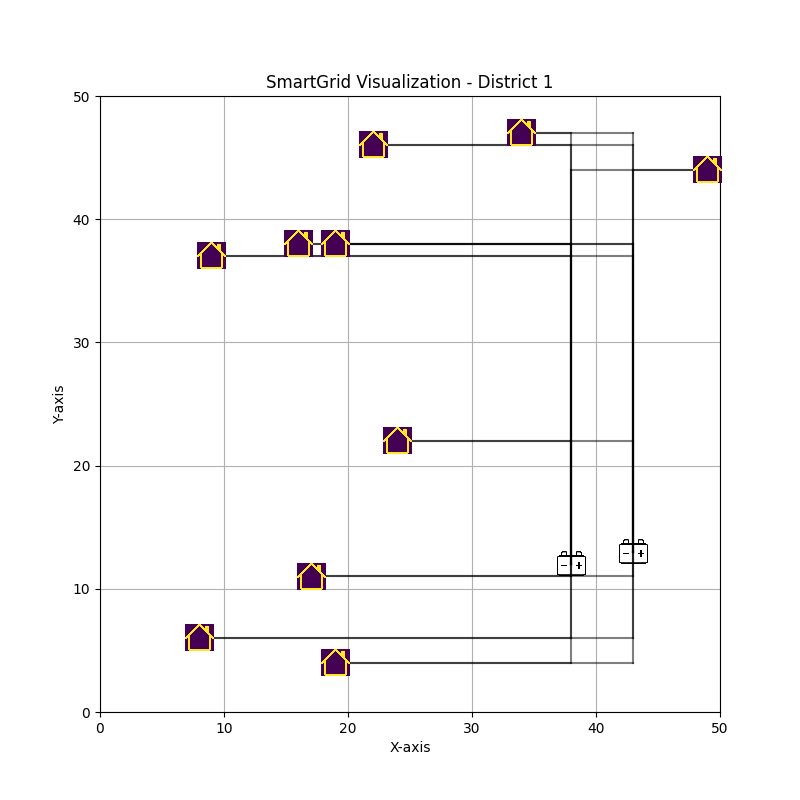
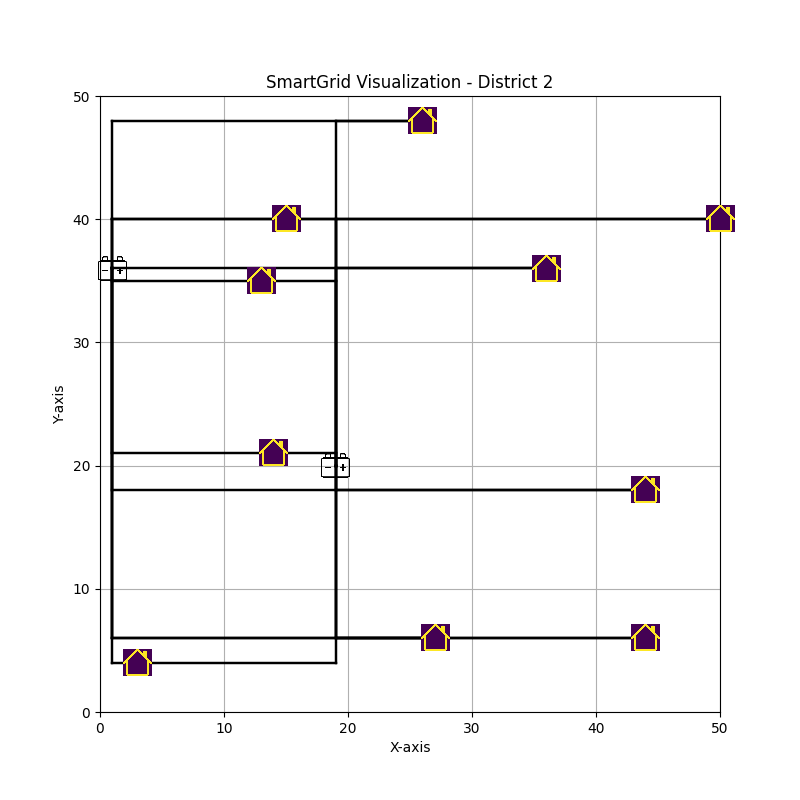
update

Changed region(s): [[0.125, 0.125, 0.9375, 0.8438], [0.625, 0.125, 0.8125, 0.2188]]

diff --git a/visualization/visualizegrid.py b/visualization/visualizegrid.py
@@ -1,7 +1,7 @@
-import matplotlib.pyplot as plt
-from matplotlib.offsetbox import OffsetImage, AnnotationBbox
-from PIL import Image
-import json 
+# import matplotlib.pyplot as plt
+# from matplotlib.offsetbox import OffsetImage, AnnotationBbox
+# from PIL import Image
+# import json 
 
 # import json
 
@@ -115,7 +115,7 @@ import json
 #         output_data = json.load(file)
 #     # Call visualize_grid with the loaded data
 #     visualize_grid(output_data)
-# #almost correct but somehow all the cables are connected
+#almost correct but somehow all the cables are connected
 
 # import matplotlib.pyplot as plt
 # from matplotlib.offsetbox import OffsetImage, AnnotationBbox
@@ -165,72 +165,15 @@ import json
 #     ax.set_xlabel('X-axis')
 #     ax.set_ylabel('Y-axis')
 #     ax.grid(True)
-#     plt.savefig('figure.png')
-#     # plt.show()
+#     #plt.savefig('figure.png')
+#     plt.show()
 
 # if __name__ == '__main__':
-#     
+#     # Load data from output.json in the parent directory
 #     file_path = '../output.json'
 #     with open(file_path, 'r') as file:
 #         output_data = json.load(file)
 #     # Call visualize_grid with the loaded data
-#     visualize_grid(output_data)
-
-# import matplotlib.pyplot as plt
-# from matplotlib.offsetbox import OffsetImage, AnnotationBbox
-# from PIL import Image
-# import json
-
-# def visualize_grid(output):
-#     fig, ax = plt.subplots(figsize=(8, 8))
-#     # load house and battery icons
-#     house_icon = Image.open('house.png')
-#     battery_icon = Image.open('battery.png')
-
-#     district = output.get("district")
-#     batteries = output.get("batteries", [])
-
-#     # Plot each battery and connected houses
-#     for battery in batteries[:2]:
-#         battery_location = battery.get("location")
-#         x_battery, y_battery = map(float, battery_location.split(','))
-
-#         # Display battery icon
-#         battery_box = AnnotationBbox(OffsetImage(battery_icon, zoom=0.05), (x_battery, y_battery), frameon=False)
-#         ax.add_artist(battery_box)
-
-#         # Plot each house connected to the battery
-#         houses = battery.get("houses", [])
-#         for house in houses[:10]:
-#             house_location = house.get("location")
-#             x_house, y_house = map(float, house_location.split(','))
-
-#             # Display house icon
-#             house_box = AnnotationBbox(OffsetImage(house_icon, zoom=0.05), (x_house, y_house), frameon=False)
-#             ax.add_artist(house_box)
-
-#             # Draw cable from the house to the battery
-#             ax.plot([x_house, x_house, x_battery], [y_house, y_battery, y_battery], 'k-', alpha=0.7)
-
-#     # Set the axis limits and labels
-#     ax.set_xlim(0, 50)
-#     ax.set_ylim(0, 50)
-#     ax.set_title(f'SmartGrid Visualization - District {district}')
-#     ax.set_xlabel('X-axis')
-#     ax.set_ylabel('Y-axis')
-
-#     ax.grid(True)
-#     plt.axis('on')
-
-#     # Save the figure
-#     # plt.savefig('corrected_figure.png', bbox_inches='tight')
-#     plt.show()
-
-# if __name__ == '__main__':
-  
-#     file_path = '../output.json'
-#     with open(file_path, 'r') as file:
-#         output_data = json.load(file)
 #     visualize_grid(output_data)
 
 
@@ -239,62 +182,61 @@ from matplotlib.offsetbox import OffsetImage, AnnotationBbox
 from PIL import Image
 import json
 
+def draw_cables(ax, house_x, house_y, cable_points):
+    """
+    Draw cables with horizontal and vertical lines only.
+    """
+    prev_x, prev_y = house_x, house_y
+
+    for point in cable_points:
+        cable_x, cable_y = point
+        # Draw horizontal line
+        ax.plot([prev_x, cable_x], [prev_y, prev_y], 'k-', alpha=0.5)
+
+        # Draw vertical line
+        ax.plot([cable_x, cable_x], [prev_y, cable_y], 'k-', alpha=0.5)
+
+        prev_x, prev_y = cable_x, cable_y
+
+
 def visualize_grid(output):
     fig, ax = plt.subplots(figsize=(8, 8))
-    # load house and battery icons
-    house_icon = Image.open('house.png')  # Make sure the path to house.png is correct
-    battery_icon = Image.open('battery.png')  # Make sure the path to battery.png is correct
+    house_icon = Image.open('house.png')
+    battery_icon = Image.open('battery.png')
 
     district = output.get("district")
     batteries = output.get("batteries", [])
 
-    # Ensure the icons do not overlap by adjusting the zoom if necessary
-    
-
-    # Iterate over the batteries
     for battery in batteries[:2]:
-        battery_location = battery.get("location")
+        battery_location = battery.get("location", "0,0")
         x_battery, y_battery = map(float, battery_location.split(','))
 
-        # Display battery icon
-        battery_box = AnnotationBbox(OffsetImage(battery_icon, zoom=0.05), (x_battery, y_battery), frameon=False)
+        battery_box = AnnotationBbox(OffsetImage(battery_icon, zoom=0.04), (x_battery, y_battery), frameon=False, pad=0)
         ax.add_artist(battery_box)
 
-        # Iterate over the houses for each battery
         houses = battery.get("houses", [])
         for house in houses[:10]:
-            house_location = house.get("location")
-            x_house, y_house = map(float, house_location.split(','))
+            house_location = house.get("location", "0,0")
+            x, y = map(float, house_location.split(','))
 
-            # Display house icon
-            house_box = AnnotationBbox(OffsetImage(house_icon, zoom=0.05), (x_house, y_house), frameon=False)
+            house_box = AnnotationBbox(OffsetImage(house_icon, zoom=0.04), (x, y), frameon=False, pad=0)
             ax.add_artist(house_box)
 
-            # Connect house to its battery with a unique cable path
-            # Draw the cable path for the house as determined by the algorithm
-            for i in range(1, len(house['cables'])):
-                start_point = house['cables'][i - 1]
-                end_point = house['cables'][i]
-                ax.plot([start_point[0], end_point[0]], [start_point[1], end_point[1]], 'k-', alpha=0.7)
+            cables = house.get("cables", [])
+            draw_cables(ax, x, y, cables)
 
-    # Set the axis limits and labels
     ax.set_xlim(0, 50)
     ax.set_ylim(0, 50)
     ax.set_title(f'SmartGrid Visualization - District {district}')
     ax.set_xlabel('X-axis')
     ax.set_ylabel('Y-axis')
-
-    # Remove the grid or make it very light
-    ax.grid(False)
-    plt.axis('on')  # Turn off the axis if not needed
-
-    # Save the figure or show interactively
-    #plt.savefig('corrected_figure.png', bbox_inches='tight')
+    ax.grid(True)
     plt.show()
+    plt.savefig('visualize.png')
+
 
 if __name__ == '__main__':
-    # Load data from output.json in the current directory
-    file_path = '../output.json'  # Update this path to where your output.json is located
+    file_path = '../output.json'
     with open(file_path, 'r') as file:
         output_data = json.load(file)
     visualize_grid(output_data)
